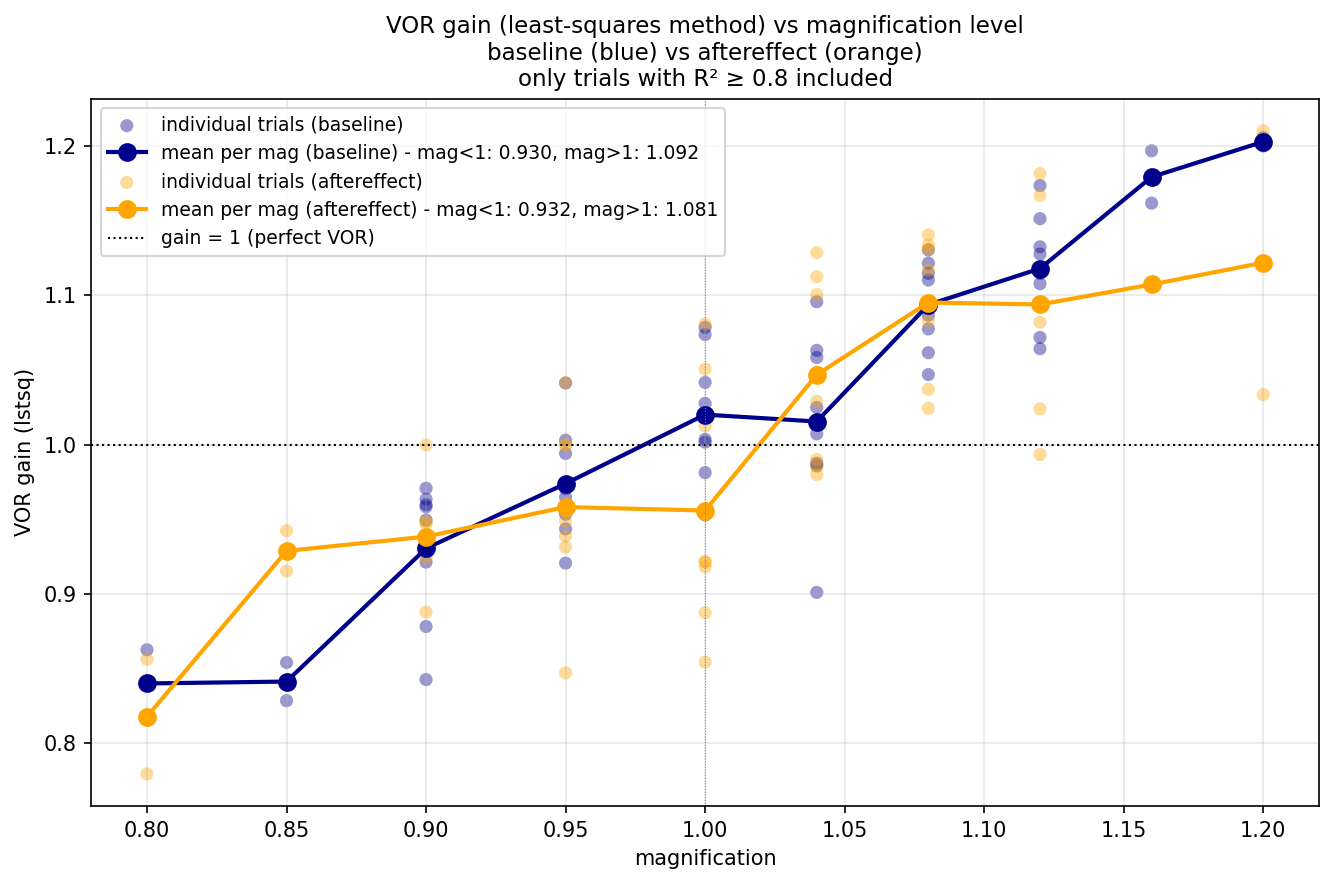
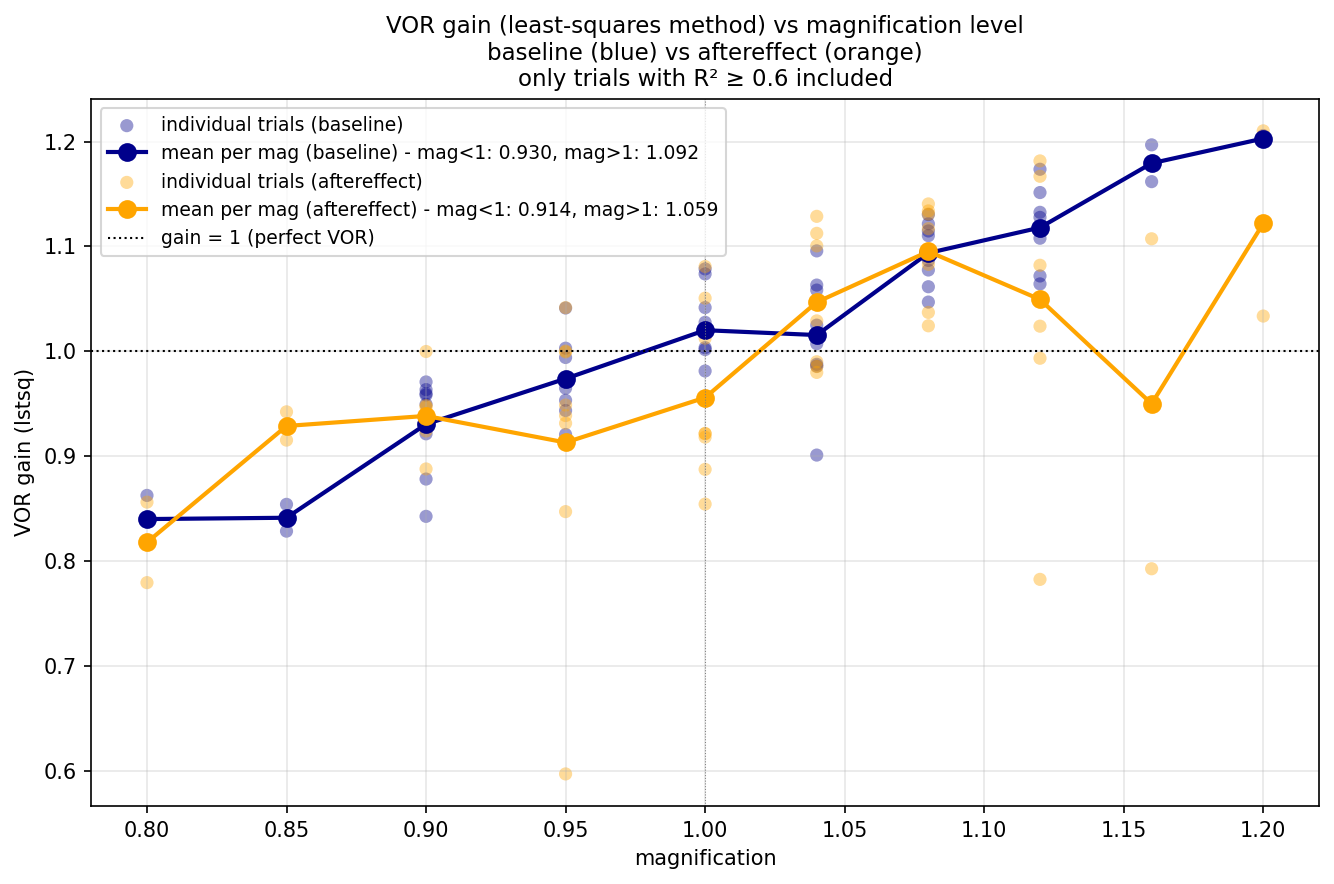
new shader and script -CircularBorder- for lower distortions in adaption phase

diff --git a/measurements/analysis/group_pse_main.py b/measurements/analysis/group_pse_main.py
@@ -1,0 +1,156 @@
+import csv
+import numpy as np
+import matplotlib.pyplot as plt
+from scipy.stats import wilcoxon
+
+
+# settings — adjust paths to where your files live
+CSV_PATH = r"D:\TolgaDaniskan\PLACES_distortions\measurements\analysis\group_pse.csv"
+OUT_DIR = r"D:\TolgaDaniskan\PLACES_distortions\measurements\analysis"
+ADAPT_MAG = 1.2  # the magnification participants adapted to
+
+
+# colors
+BASE_COLOR = "steelblue"
+AFT_COLOR = "darkorange"
+
+
+def read_table(path):
+    # read group_pse.csv into a list of dicts, one per participant.
+    participants = []
+    with open(path, newline="") as f:
+        reader = csv.DictReader(f)
+        for row in reader:
+            p = {"pid": row["pid"]}
+            for key in row:
+                if key != "pid" and row[key] != "":
+                    p[key] = float(row[key])
+            participants.append(p)
+    participants.sort(key=lambda p: int(p["pid"].split("_")[1]))
+    return participants
+
+
+def main():
+    participants = read_table(CSV_PATH)
+    n = len(participants)
+
+    # collect deltas for the stats panel
+    d_centres = np.array([p["d_centre"] for p in participants])
+    d_uppers = np.array([p["d_pse_hi"] for p in participants])
+    d_lowers = np.array([p["d_pse_lo"] for p in participants])
+
+    # group means (for reference) 
+    base_lo_mean = np.mean([p["base_pse_lo"] for p in participants])
+    base_hi_mean = np.mean([p["base_pse_hi"] for p in participants])
+    base_centre_mean = np.mean([p["base_centre"] for p in participants])
+    aft_lo_mean = np.mean([p["aft_pse_lo"] for p in participants])
+    aft_hi_mean = np.mean([p["aft_pse_hi"] for p in participants])
+    aft_centre_mean = np.mean([p["aft_centre"] for p in participants])
+
+    # wilcoxon test on the centre shift
+    w, p_val = wilcoxon(d_centres)
+    n_positive_centre = int((d_centres > 0).sum())
+
+    # build the plot
+    fig, ax = plt.subplots(figsize=(12, 6.5))
+
+    # positions on the x-axis: for each participant, base bar at x-0.2, aft bar at x+0.2
+    # plus one extra column at the end for the group mean
+    bar_half_width = 0.12
+    offset = 0.22
+
+    for i, p in enumerate(participants):
+        x_base = i - offset
+        x_aft = i + offset
+
+        # baseline window (vertical line from lo to hi, with a marker at the centre)
+        ax.plot([x_base, x_base], [p["base_pse_lo"], p["base_pse_hi"]],
+                color=BASE_COLOR, lw=4, solid_capstyle="round", alpha=0.85)
+        ax.plot(x_base, p["base_centre"], "o", color=BASE_COLOR,
+                markersize=7, markeredgecolor="white", markeredgewidth=1.0, zorder=5)
+
+        # aftereffect window
+        ax.plot([x_aft, x_aft], [p["aft_pse_lo"], p["aft_pse_hi"]],
+                color=AFT_COLOR, lw=4, solid_capstyle="round", alpha=0.85)
+        ax.plot(x_aft, p["aft_centre"], "o", color=AFT_COLOR,
+                markersize=7, markeredgecolor="white", markeredgewidth=1.0, zorder=5)
+
+        # thin grey line connecting baseline centre to aftereffect centre
+        ax.plot([x_base, x_aft], [p["base_centre"], p["aft_centre"]],
+                color="grey", lw=0.8, alpha=0.6, zorder=2)
+
+    # group mean as a separate column at the end
+    x_group = n + 0.2
+    x_group_base = x_group - offset
+    x_group_aft = x_group + offset
+
+    ax.plot([x_group_base, x_group_base], [base_lo_mean, base_hi_mean],
+            color=BASE_COLOR, lw=8, solid_capstyle="round")
+    ax.plot(x_group_base, base_centre_mean, "o", color=BASE_COLOR,
+            markersize=10, markeredgecolor="black", markeredgewidth=1.2, zorder=5)
+
+    ax.plot([x_group_aft, x_group_aft], [aft_lo_mean, aft_hi_mean],
+            color=AFT_COLOR, lw=8, solid_capstyle="round")
+    ax.plot(x_group_aft, aft_centre_mean, "o", color=AFT_COLOR,
+            markersize=10, markeredgecolor="black", markeredgewidth=1.2, zorder=5)
+
+    # connecting line for the group mean
+    ax.plot([x_group_base, x_group_aft], [base_centre_mean, aft_centre_mean],
+            color="black", lw=1.5, zorder=4)
+
+    # reference lines
+    ax.axhline(1.0, color="black", ls=":", lw=1, alpha=0.6, zorder=1)
+    ax.text(-1.0, 1.0, "veridical", fontsize=8, color="black",
+            va="bottom", ha="left", alpha=0.7)
+
+    ax.axhline(ADAPT_MAG, color="green", ls=":", lw=1, alpha=0.7, zorder=1)
+    ax.text(-1.0, ADAPT_MAG, f"adapt mag = {ADAPT_MAG}", fontsize=8,
+            color="green", va="bottom", ha="left", alpha=0.8)
+
+    # x-axis labels
+    xtick_positions = list(range(n)) + [x_group]
+    xtick_labels = [p["pid"] for p in participants] + ["GROUP\nMEAN"]
+    ax.set_xticks(xtick_positions)
+    ax.set_xticklabels(xtick_labels, fontsize=9)
+    ax.set_xlim(-0.7, n + 0.9)
+
+    # y-axis
+    ax.set_ylabel("magnification")
+    ax.set_ylim(0.85, 1.25)
+    ax.grid(alpha=0.3, axis="y")
+
+    # legend (dummy entries)
+    ax.plot([], [], color=BASE_COLOR, lw=4, label="baseline window (low → high PSE)")
+    ax.plot([], [], color=AFT_COLOR, lw=4, label="aftereffect window")
+    ax.plot([], [], "o", color="grey", label="window centre")
+    ax.legend(loc="upper left", fontsize=9, framealpha=0.95)
+
+    # stats text box in upper right
+    stats_text = (
+        f"Group stats (n = {n}):\n"
+        f"  $\\Delta$ centre: mean = {d_centres.mean():+.4f}\n"
+        f"  $\\Delta$ lower PSE: mean = {d_lowers.mean():+.4f}\n"
+        f"  $\\Delta$ upper PSE: mean = {d_uppers.mean():+.4f}\n"
+        f"\n"
+        f"  {n_positive_centre} of {n} show positive $\\Delta$ centre\n"
+        f"  Wilcoxon p = {p_val:.3f}"
+    )
+    ax.text(0.99, 0.97, stats_text, transform=ax.transAxes,
+            ha="right", va="top", fontsize=9,
+            bbox=dict(boxstyle="round,pad=0.5", facecolor="white",
+                      edgecolor="grey", alpha=0.95),
+            family="monospace")
+
+    # title
+    ax.set_title("Stability window before vs after adaptation\n"
+                 "bar = range from lower to upper PSE, dot = centre,  "
+                 "thin line connects same participant",
+                 fontsize=11)
+
+    plt.tight_layout()
+    plt.savefig(OUT_DIR + "/group_pse_main.png", dpi=150, bbox_inches="tight")
+    print(f"saved {OUT_DIR}/group_pse_main.png")
+    plt.show()
+
+
+main()

diff --git a/measurements/analysis/swimtest_amplitudes.py b/measurements/analysis/swimtest_amplitudes.py
@@ -182,11 +182,9 @@ def get_trial_signals(head_df, gaze_df, trial):
 # amplitude extraction 
 
 def get_amplitude(t, x):
-    """
-    detect all peaks (maxima and minima) in the signal and return the mean
-    of their absolute values.
-    one number per trial = one point in the scatter plot.
-    """
+    # detect all peaks (maxima and minima) in the signal and return the mean
+    # of their absolute values.
+    
     if len(t) < 5 or np.all(np.isnan(x)):
         return []
 
@@ -253,9 +251,6 @@ def get_gain_lstsq(head_t, head_yaw, eye_t, eye_yaw, subtract_median=False):
     model: -y_eye(t) = g * y_head(t) + s
     where g is the gain (slope) and s is the spatial offset (intercept).
     we fit g and s simultaneously so both are optimal.
-
-    if subtract_median=True: medians are removed before the fit (legacy behaviour).
-    if subtract_median=False: s is estimated entirely by the fit (cleaner).
     """
     if len(head_t) < 5 or len(eye_t) < 5:
         return np.nan, np.nan
@@ -334,8 +329,7 @@ for phase in ["baseline", "aftereffect"]:
             all_trial_signals.append((phase, s))
 
 # step B: measure delay for every trial, then take ONE global median across all
-# trials and both phases. the eye-tracker delay is a hardware property and
-# doesn't depend on magnification or phase, so a single global value is cleanest.
+# trials and both phases. 
 print("\n--- computing global delay ---")
 all_delays = []
 for phase, s in all_trial_signals:
@@ -459,7 +453,7 @@ if example_signal is not None:
     ax_ex.axvline(0, color="gray", lw=0.5)
     ax_ex.set_xlabel("head yaw (deg)")
     ax_ex.set_ylabel("-eye yaw (deg)")
-    ax_ex.set_title(f"Plot 1: example trial — sample-pairs and lstsq fit\n"
+    ax_ex.set_title(f"Plot 1: example trial: sample-pairs and lstsq fit\n"
                 f"({EXAMPLE_PHASE}, mag = {example_signal['trial']['magnification']}, "
                 f"trial #{EXAMPLE_TRIAL_NUMBER} of {len(matching_trials)})\n"
                 f"gain = {g_fit:.3f}, offset = {s_fit:.2f}, R² = {r2_fit:.3f}")
@@ -486,7 +480,7 @@ for phase in ["baseline", "aftereffect"]:
 # we filter out trials with poor fit quality (low R²) — these are usually
 # trials where the participant didn't fixate properly, so the lstsq fit
 # can't find a meaningful relationship between head and eye.
-R_SQUARED_THRESHOLD = 0.8   # trials below this are excluded, can be adjusted
+R_SQUARED_THRESHOLD = 0.6   # trials below this are excluded, can be adjusted
 
 # report how many trials are excluded
 n_total = len(amp_df.dropna(subset=["gain_lstsq", "r_squared"]))

diff --git a/Assets/Scripts/CircularBorder.cs b/Assets/Scripts/CircularBorder.cs
@@ -1,0 +1,51 @@
+using UnityEngine;
+
+
+/// Adds a circular black border (vignette) over the rendered image.
+/// Attach this to the Main Camera. Adjust BorderRadius in the inspector
+/// to control how much of the periphery is masked out.
+///
+/// BorderRadius = 1.0 -> no border (full image visible)
+/// BorderRadius = 0.9 -> small border (10% of the periphery masked)
+/// ...
+///
+/// must be applied to all magnification conditions equally to keep the
+/// visual stimulus consistent across groups.
+[ExecuteInEditMode]
+public class CircularBorder : MonoBehaviour
+{
+    [Range(0.1f, 1.0f)]
+    [Tooltip("How big the visible (non-black) circle is. 1.0 = no border, 0.8 = 20% border ring")]
+    public float borderRadius = 0.95f;
+
+    [Range(0.0f, 0.5f)]
+    [Tooltip("How soft the edge between visible and black is. 0 = hard edge, 0.5 = very soft falloff")]
+    public float edgeSoftness = 0.02f;
+
+    private Material borderMaterial;
+
+    void Awake()
+    {
+        Shader shader = Shader.Find("Hidden/CircularBorder");
+        if (shader == null)
+        {
+            Debug.LogError("CircularBorder shader not found. Make sure CircularBorder.shader exists in your project.");
+            return;
+        }
+        borderMaterial = new Material(shader);
+        borderMaterial.hideFlags = HideFlags.HideAndDontSave;
+    }
+
+    void OnRenderImage(RenderTexture source, RenderTexture destination)
+    {
+        if (borderMaterial == null)
+        {
+            Graphics.Blit(source, destination);
+            return;
+        }
+
+        borderMaterial.SetFloat("_BorderRadius", borderRadius);
+        borderMaterial.SetFloat("_EdgeSoftness", edgeSoftness);
+        Graphics.Blit(source, destination, borderMaterial);
+    }
+}
